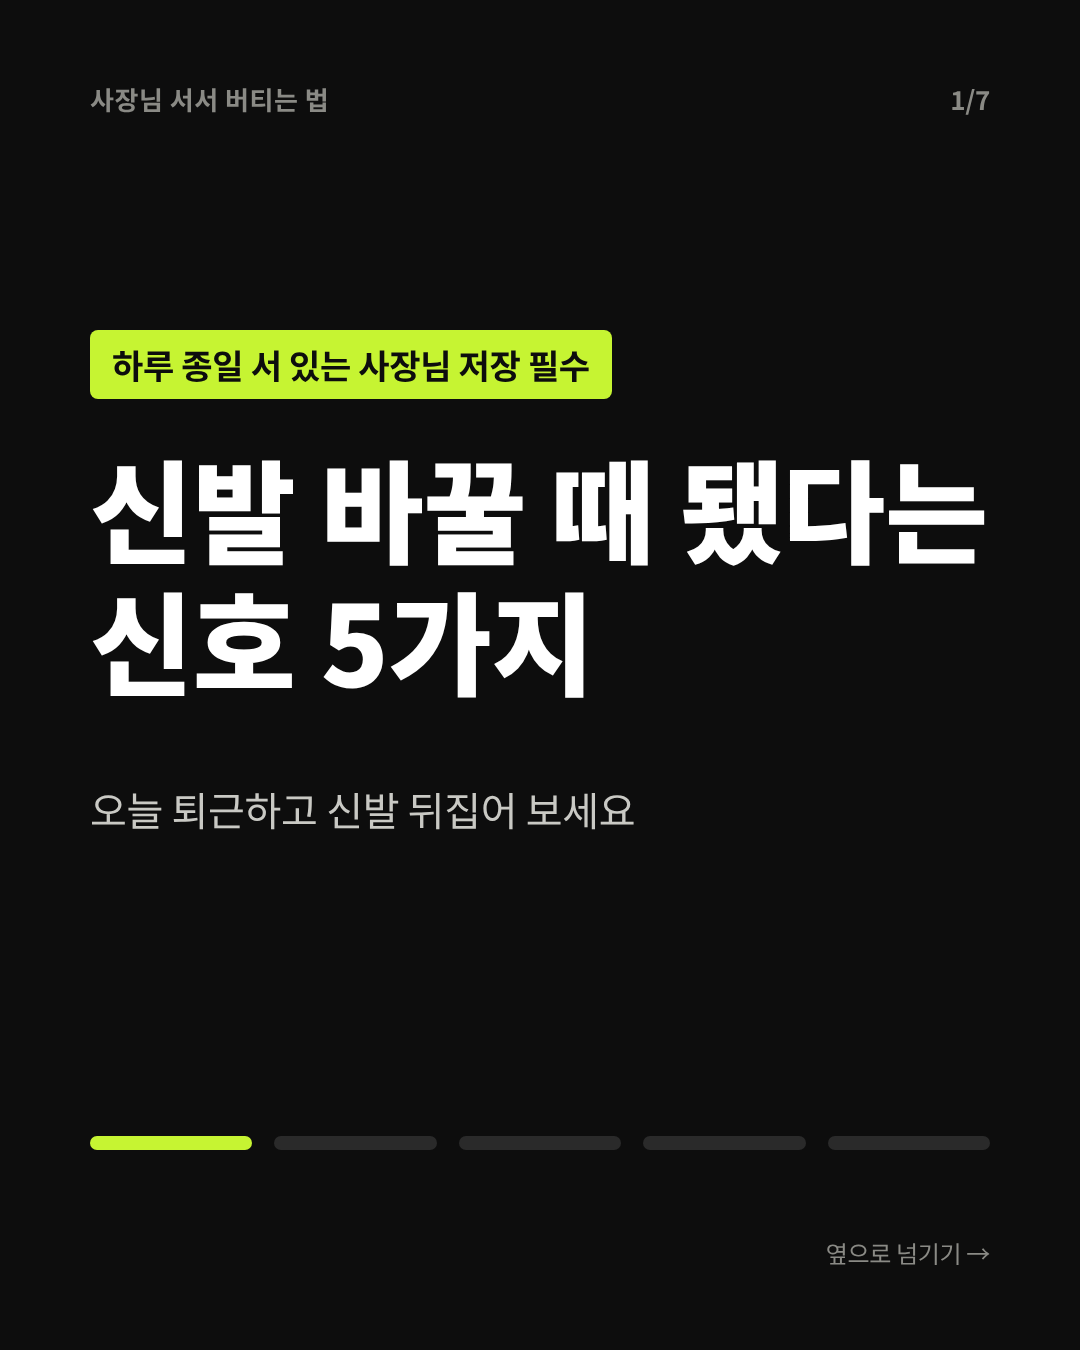
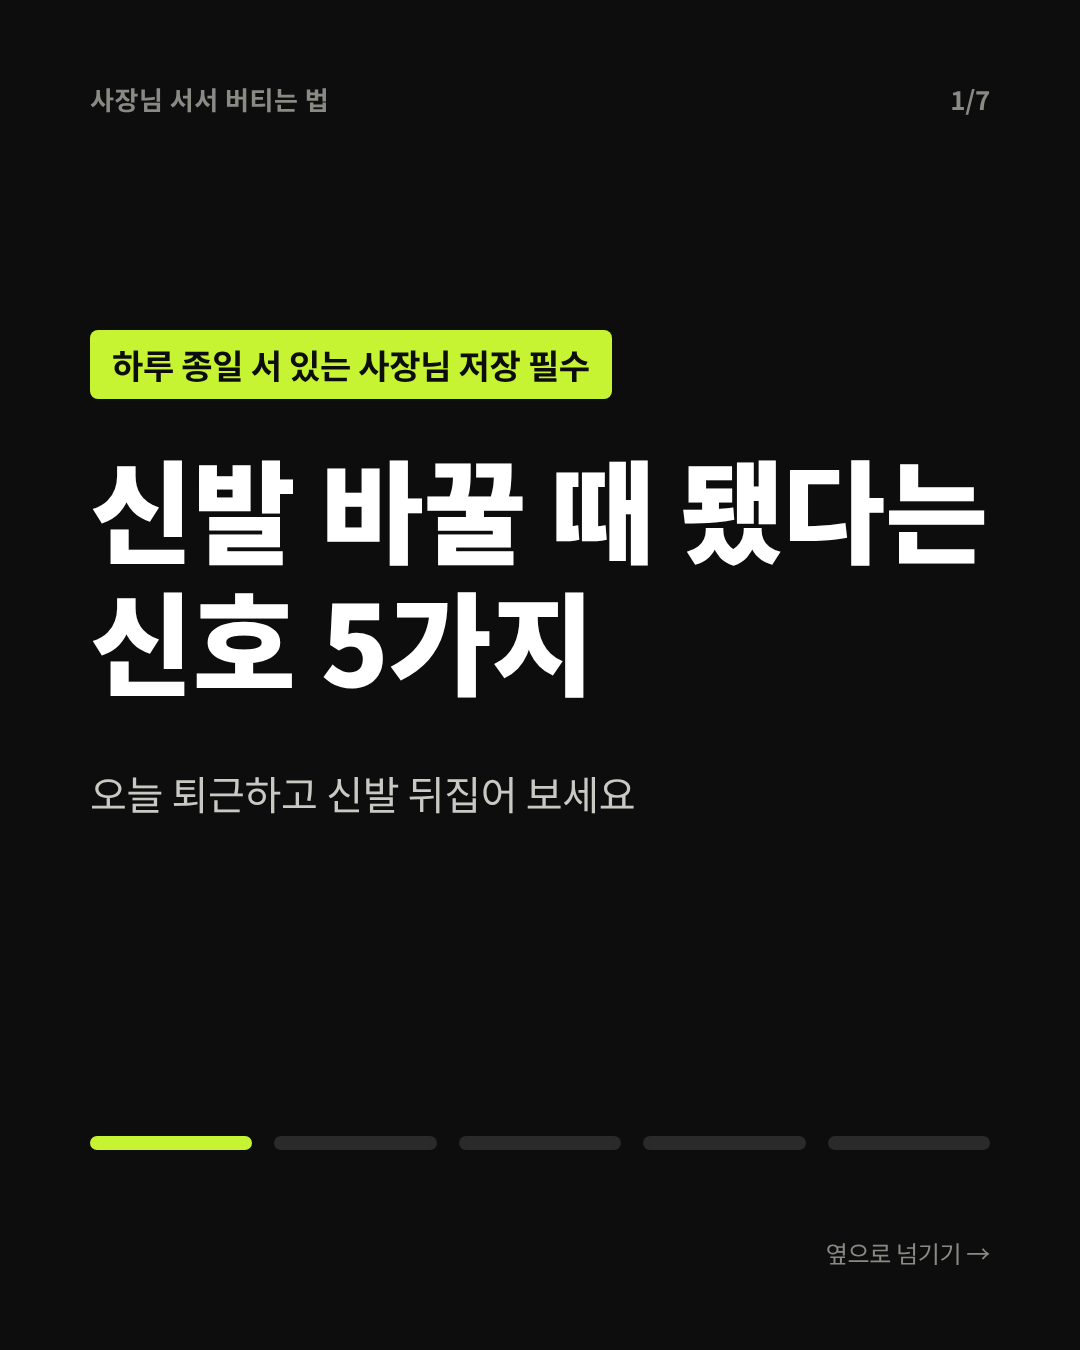
카드뉴스 2·3편 + 캡션·해시태그 추가
Claude-Session: https://claude.ai/code/session_01WbwBaiEPCZ7zKuMjGg7vqH

Changed region(s): [[0.0917, 0.56, 0.5806, 0.6222]]

diff --git a/launch/rs/design/cardnews/build.py b/launch/rs/design/cardnews/build.py
@@ -17,7 +17,7 @@ n = len(s['items']) + 2; pages = []
 c = s['cover']
 pages.append(f'''<div style="position:absolute;left:90px;top:330px;font-size:34px;font-weight:700;color:#0D0D0D;background:#C6F432;padding:10px 22px;border-radius:8px">{c["kicker"]}</div>
 <div style="position:absolute;left:90px;top:440px;font-size:112px;font-weight:900;line-height:1.18;color:#fff">{nl(c["title"])}</div>
-<div style="position:absolute;left:90px;top:780px;font-size:40px;color:#C9C9C4">{c["sub"]}</div>
+<div style="position:absolute;left:90px;top:{440 + 132 * (c["title"].count(chr(10)) + 1) + 60}px;font-size:40px;color:#C9C9C4">{c["sub"]}</div>
 <div style="position:absolute;left:90px;right:90px;bottom:200px;display:flex;gap:22px">{"".join(f'<div style="flex:1;height:14px;border-radius:7px;background:{"#C6F432" if k==0 else "#2A2A2A"}"></div>' for k in range(5))}</div>''')
 for k, it in enumerate(s['items']):
     pages.append(f'''<div style="position:absolute;left:90px;top:250px;font-size:220px;font-weight:900;color:#C6F432;line-height:1">{it["no"]}</div>

diff --git a/launch/rs/design/cardnews/captions.md b/launch/rs/design/cardnews/captions.md
@@ -1,0 +1,38 @@
+# 카드뉴스 캡션 · 해시태그 (게시 전 대표 승인 L2)
+
+> 해시태그 5개 원칙 (인스타 2개월 계획): 큰 태그 2 + 직업 태그 2 + 브랜드 1
+
+## 01 신발 바꿀 때 됐다는 신호 5가지
+```
+하루 종일 서 있는 사장님, 오늘 퇴근하고 신발 한번 뒤집어 보세요 👟
+
+밑창 무늬, 뒤꿈치, 깔창, 발목 입구 —
+3개 이상 해당되면 바꿀 때가 된 거예요.
+
+저장해 두고, 옆 가게 사장님께도 공유해 주세요.
+
+#자영업자 #사장님 #주방화 #서서일하는직업 #라라슈
+```
+
+## 02 주방 바닥, 덜 미끄럽게 닦는 순서 5단계
+```
+열심히 닦았는데 바닥이 더 미끄럽다면, 순서 문제예요 🧽
+
+기름기 걷기 → 세제는 표시 비율대로 → 맑은 물로 헹굼 → 물기 밀어내기 → 다 마를 때까지 동선 막기
+
+오늘 마감은 이 순서로. 직원 단톡방에 공유해 두세요.
+
+#자영업자 #식당운영 #주방청소 #식당사장님 #라라슈
+```
+
+## 03 10시간 서 있는 날, 3분 발 풀기
+```
+쉬는 시간 3분, 의자 하나와 벽 하나면 됩니다 🦶
+
+발가락 쥐었다 펴기 · 발목 돌리기 · 뒤꿈치 들기 · 종아리 늘리기 · 발바닥 굴리기
+
+저장해 두고 쉬는 시간에 같이 해 보세요.
+※ 불편하거나 아프면 멈추고 전문의와 상담하세요.
+
+#자영업자 #사장님 #발스트레칭 #서서일하는직업 #라라슈
+```

diff --git a/launch/rs/log.md b/launch/rs/log.md
@@ -307,3 +307,4 @@
 - 2026-10-27 제미나이 실물 참조 생성 테스트 3장: 기본 모델은 신발 형태(끈 운동화)·패드 배치 이탈, 고급 모델(gemini-3-pro-image)+실물 2장 참조는 클로그 형태 OK·패드 4점 중 1개 위치 상이 → 제품 디테일컷 사용 불가, 배경/연출 전용. 스크립트 design/ai-gen/gemini_gen.py(참조 이미지 없으면 실행 거부)
 - 2026-10-27 대표 지정 대표사진: 워킹화 walking-main.jpg · 인솔 insole-main.jpg → 제품마스터 등록 + 박람회 출력물(네임택·리플렛·X배너·배너) 교체(흰 배경 contain). 🔴 워킹화 사진 패드 색이 초록(#62E921)으로 브랜드 라임(#C6F432)·기존 실물사진과 다름 → 실물 색 확인 필요. 인솔 구조 시안(insole-structure-ref) 문구 '압력 분산' 등 감수 필요, 리뷰 QR 주소 미확인
 - 2026-10-27 자영업자 정보형 카드뉴스 체계 세팅: 생성기 design/cardnews/build.py(JSON→1080×1350 PNG) + workflows/rs-cardnews.md(주제 은행 8) + 1편 '신발 바꿀 때 됐다는 신호 5가지' 7장 (게시 전 대표 승인)
+- 2026-10-27 카드뉴스 2편(주방 바닥 마감 순서)·3편(3분 발 풀기) 제작 + 1~3편 캡션·해시태그 design/cardnews/captions.md. 표지 3줄 제목 겹침 수정
